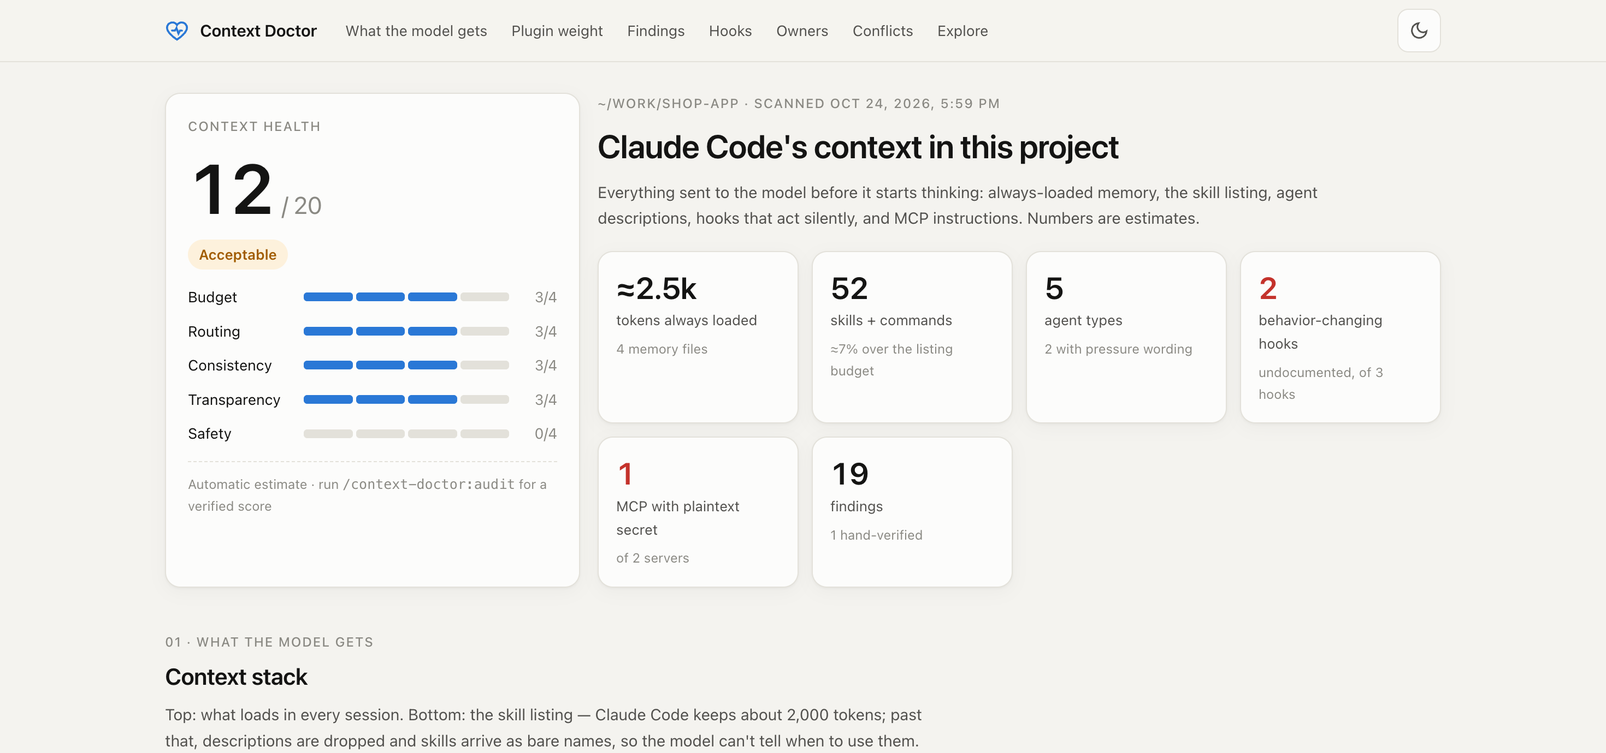
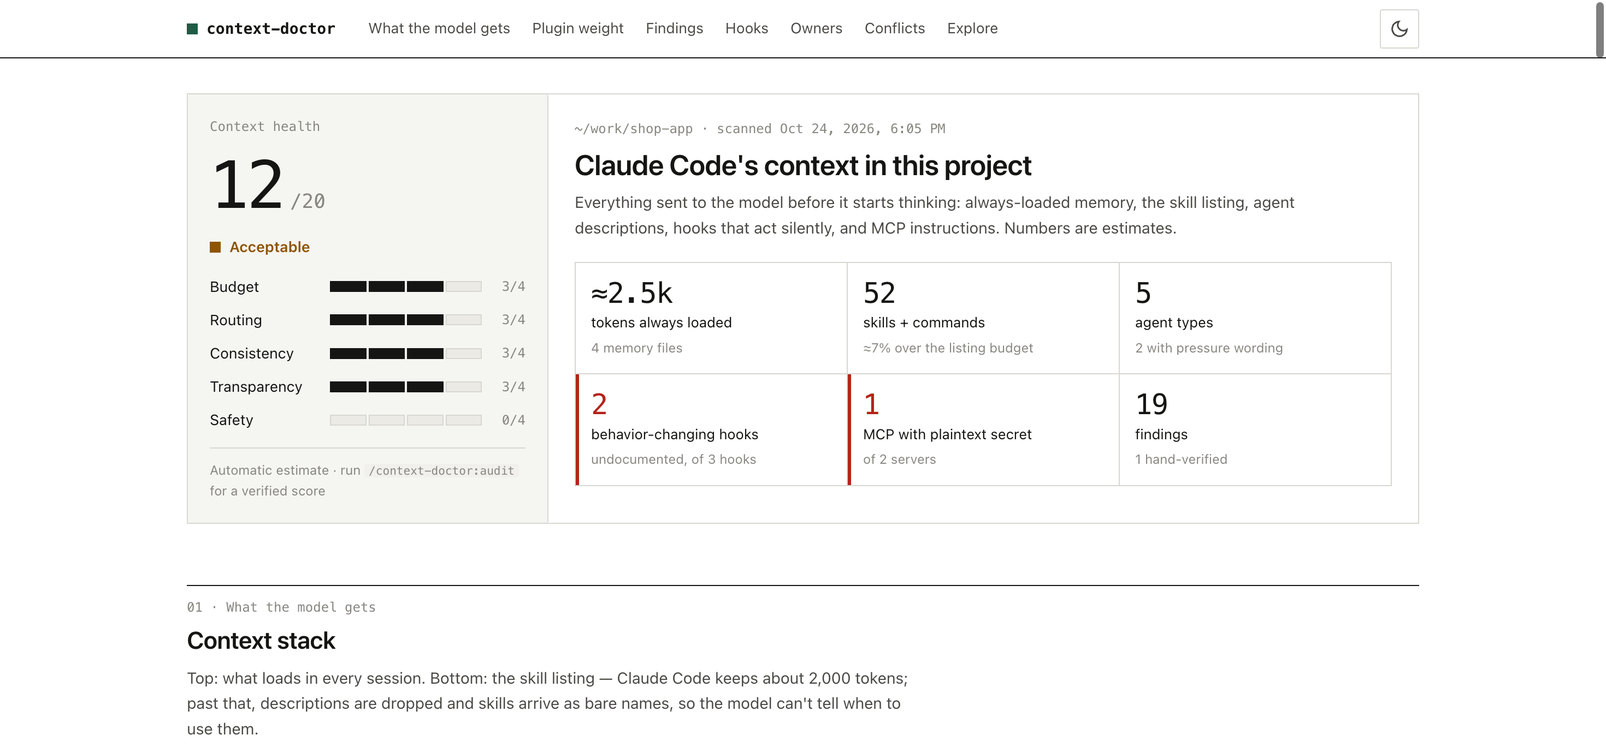
style: dashboard as a plain report — hairlines, mono figures, one accent

diff --git a/scanner/template.html b/scanner/template.html
@@ -7,171 +7,183 @@
 <style>
 :root {
   color-scheme: light;
-  --bg: #f4f3ef; --surface: #fcfcfb; --raised: #ffffff; --ink: #141413; --ink-2: #52514e; --ink-3: #8a8983;
-  --line: #e3e1da; --line-2: #ecebe5; --chip: #efeee9;
-  --accent: #2a78d6; --accent-soft: #e6f0fc;
-  --s1: #2a78d6; --s2: #eb6834; --s3: #1baf7a; --s4: #eda100; --s5: #e87ba4; --s6: #6250d6;
-  --qt-hi: #ffffff; --q150: #e4eefb; --q250: #b7d3f6; --q350: #6da7ec; --q450: #2a78d6; --q550: #184f95;
-  --crit: #c4322b; --crit-bg: #fbe9e7; --warn: #a15c00; --warn-bg: #fdf1dc; --good: #1d7a3e; --good-bg: #e6f4ea; --info: #52514e; --info-bg: #efeee9;
-  --hatch: #d8d6cf;
-  --shadow: 0 1px 2px rgba(20,20,19,.04), 0 4px 16px rgba(20,20,19,.04);
+  --bg: #ffffff; --surface: #ffffff; --alt: #f5f5f2; --ink: #151513; --ink-2: #4b4a45; --ink-3: #87867f;
+  --line: #d8d7d0; --line-2: #ebeae5; --chip: #f1f0ec;
+  --accent: #1d5c45; --accent-soft: #eaf1ed;
+  --s1: #0f3d2e; --s2: #2c6b52; --s3: #5a8f78; --s4: #8eb3a1; --s5: #bdd3c7; --s6: #dde8e2;
+  --qt-hi: #ffffff; --q150: #efeee9; --q250: #c9dccf; --q350: #8eb3a1; --q450: #3f7d64; --q550: #0f3d2e;
+  --crit: #b42318; --crit-bg: #fbeceb; --warn: #8f5400; --warn-bg: #fbf1df; --good: #1d5c45; --good-bg: #eaf1ed; --info: #4b4a45; --info-bg: #f1f0ec;
+  --hatch: #cfcec7;
 }
 @media (prefers-color-scheme: dark) { :root:where(:not([data-theme="light"])) {
   color-scheme: dark;
-  --bg: #121211; --surface: #1a1a19; --raised: #20201e; --ink: #f0efec; --ink-2: #c3c2b7; --ink-3: #8c8b84;
-  --line: #2f2e2b; --line-2: #272724; --chip: #2a2a27;
-  --accent: #3987e5; --accent-soft: #1c2b40;
-  --s1: #3987e5; --s2: #d95926; --s3: #199e70; --s4: #c98500; --s5: #d55181; --s6: #9085e9;
-  --qt-hi: #0b0b0b; --q150: #232c38; --q250: #1c4a85; --q350: #256abf; --q450: #5598e7; --q550: #9ec5f4;
-  --crit: #f0857c; --crit-bg: #3a1d1a; --warn: #e8b458; --warn-bg: #36290f; --good: #7cc995; --good-bg: #16301f; --info: #c3c2b7; --info-bg: #2a2a27;
-  --hatch: #3a3935;
-  --shadow: none;
+  --bg: #111110; --surface: #111110; --alt: #191917; --ink: #eceae4; --ink-2: #b9b7ae; --ink-3: #85847c;
+  --line: #34332f; --line-2: #262623; --chip: #22221f;
+  --accent: #7fbf9f; --accent-soft: #1a2a23;
+  --s1: #a9d6bf; --s2: #7fbf9f; --s3: #5c9e80; --s4: #3f7d64; --s5: #2c5c4a; --s6: #1f4436;
+  --qt-hi: #0d0d0c; --q150: #22221f; --q250: #24402f; --q350: #2f6b51; --q450: #5c9e80; --q550: #a9d6bf;
+  --crit: #f08a7e; --crit-bg: #3a1c19; --warn: #e3b05c; --warn-bg: #33270f; --good: #7fbf9f; --good-bg: #1a2a23; --info: #b9b7ae; --info-bg: #22221f;
+  --hatch: #3d3c37;
 } }
 :root[data-theme="dark"] {
   color-scheme: dark;
-  --bg: #121211; --surface: #1a1a19; --raised: #20201e; --ink: #f0efec; --ink-2: #c3c2b7; --ink-3: #8c8b84;
-  --line: #2f2e2b; --line-2: #272724; --chip: #2a2a27;
-  --accent: #3987e5; --accent-soft: #1c2b40;
-  --s1: #3987e5; --s2: #d95926; --s3: #199e70; --s4: #c98500; --s5: #d55181; --s6: #9085e9;
-  --qt-hi: #0b0b0b; --q150: #232c38; --q250: #1c4a85; --q350: #256abf; --q450: #5598e7; --q550: #9ec5f4;
-  --crit: #f0857c; --crit-bg: #3a1d1a; --warn: #e8b458; --warn-bg: #36290f; --good: #7cc995; --good-bg: #16301f; --info: #c3c2b7; --info-bg: #2a2a27;
-  --hatch: #3a3935;
-  --shadow: none;
+  --bg: #111110; --surface: #111110; --alt: #191917; --ink: #eceae4; --ink-2: #b9b7ae; --ink-3: #85847c;
+  --line: #34332f; --line-2: #262623; --chip: #22221f;
+  --accent: #7fbf9f; --accent-soft: #1a2a23;
+  --s1: #a9d6bf; --s2: #7fbf9f; --s3: #5c9e80; --s4: #3f7d64; --s5: #2c5c4a; --s6: #1f4436;
+  --qt-hi: #0d0d0c; --q150: #22221f; --q250: #24402f; --q350: #2f6b51; --q450: #5c9e80; --q550: #a9d6bf;
+  --crit: #f08a7e; --crit-bg: #3a1c19; --warn: #e3b05c; --warn-bg: #33270f; --good: #7fbf9f; --good-bg: #1a2a23; --info: #b9b7ae; --info-bg: #22221f;
+  --hatch: #3d3c37;
 }
 * { box-sizing: border-box }
-html { scroll-behavior: smooth; scroll-padding-top: 72px }
-body { margin: 0; background: var(--bg); color: var(--ink); font: 15px/1.65 'IBM Plex Sans Thai', 'Noto Sans Thai', system-ui, -apple-system, 'Segoe UI', sans-serif; -webkit-font-smoothing: antialiased }
-.mono, code { font-family: 'IBM Plex Mono', ui-monospace, SFMono-Regular, Menlo, Consolas, monospace; font-size: 12.5px }
-.wrap { max-width: 1200px; margin: 0 auto; padding: 0 16px 80px }
-.top { position: sticky; top: 0; z-index: 10; background: color-mix(in srgb, var(--bg) 88%, transparent); backdrop-filter: blur(8px); border-bottom: 1px solid var(--line) }
-.top .wrap { display: flex; align-items: center; gap: 16px; padding-bottom: 0; min-height: 56px; flex-wrap: wrap }
-.brand { display: flex; align-items: center; gap: 10px; font-weight: 600; letter-spacing: -.01em }
-.brand svg { color: var(--accent) }
-.top nav { display: flex; gap: 2px; overflow-x: auto; flex: 1; scrollbar-width: none }
-.top nav a { color: var(--ink-2); text-decoration: none; font-size: 13.5px; padding: 8px 10px; border-radius: 8px; white-space: nowrap }
-.top nav a:hover { background: var(--chip); color: var(--ink) }
-.iconbtn { border: 1px solid var(--line); background: var(--surface); color: var(--ink-2); border-radius: 10px; width: 40px; height: 40px; display: grid; place-items: center; cursor: pointer }
-.iconbtn:hover { color: var(--ink) }
-section { padding-top: 40px }
-.eyebrow { font-size: 12px; letter-spacing: .08em; text-transform: uppercase; color: var(--ink-3); font-weight: 500 }
-h2 { font-size: 21px; font-weight: 600; letter-spacing: -.01em; margin: 4px 0 6px }
-.lede { color: var(--ink-2); margin: 0 0 18px; max-width: 76ch; font-size: 14.5px }
-.card { background: var(--surface); border: 1px solid var(--line); border-radius: 14px; padding: 20px; box-shadow: var(--shadow) }
+html { scroll-behavior: smooth; scroll-padding-top: 64px }
+body { margin: 0; background: var(--bg); color: var(--ink); font: 15px/1.6 'IBM Plex Sans Thai', 'Noto Sans Thai', -apple-system, system-ui, 'Segoe UI', sans-serif; -webkit-font-smoothing: antialiased }
+.mono, code, .eyebrow, .num, .sev, .badge, th, .tile .v, .score .big, .meter span:last-child { font-family: 'IBM Plex Mono', ui-monospace, SFMono-Regular, Menlo, Consolas, monospace }
+code { font-size: .88em; background: var(--chip); padding: 0 4px; border-radius: 2px }
+.mono { font-size: 12.5px }
+.wrap { max-width: 1160px; margin: 0 auto; padding: 0 16px 80px }
+.top { position: sticky; top: 0; z-index: 10; background: var(--bg); border-bottom: 1px solid var(--ink) }
+.top .wrap { display: flex; align-items: center; gap: 20px; padding-bottom: 0; min-height: 52px; flex-wrap: wrap }
+.brand { display: flex; align-items: center; gap: 8px; font: 600 14px/1 'IBM Plex Mono', ui-monospace, Menlo, monospace; letter-spacing: 0 }
+.brand i { width: 10px; height: 10px; background: var(--accent); display: inline-block }
+.top nav { display: flex; gap: 0; overflow-x: auto; flex: 1; scrollbar-width: none }
+.top nav a { color: var(--ink-2); text-decoration: none; font-size: 13.5px; padding: 15px 10px 14px; white-space: nowrap; border-bottom: 2px solid transparent }
+.top nav a:hover { color: var(--ink); border-bottom-color: var(--ink) }
+.iconbtn { border: 1px solid var(--line); background: var(--bg); color: var(--ink-2); border-radius: 2px; width: 36px; height: 36px; display: grid; place-items: center; cursor: pointer }
+.iconbtn:hover { color: var(--ink); border-color: var(--ink) }
+section { padding-top: 56px }
+.eyebrow { font-size: 12px; color: var(--ink-3); font-weight: 400 }
+h2 { font-size: 22px; font-weight: 600; letter-spacing: -.01em; margin: 2px 0 6px; padding-top: 0 }
+section > .eyebrow { border-top: 1px solid var(--ink); padding-top: 10px }
+.lede { color: var(--ink-2); margin: 0 0 20px; max-width: 74ch; font-size: 14.5px }
+.card { background: var(--surface); border: 1px solid var(--line); border-radius: 2px; padding: 20px }
 .muted { color: var(--ink-2) } .faint { color: var(--ink-3) } .small { font-size: 13px } .num { font-variant-numeric: tabular-nums }
 /* hero */
-.hero { display: grid; grid-template-columns: minmax(280px, 380px) 1fr; gap: 16px; padding-top: 28px }
-@media (max-width: 860px) { .hero { grid-template-columns: 1fr } }
-.score { display: flex; flex-direction: column; gap: 14px }
-.score .big { display: flex; align-items: baseline; gap: 8px }
-.score .big b { font-size: 64px; line-height: 1; font-weight: 600; letter-spacing: -.03em; font-variant-numeric: tabular-nums }
-.score .big span { font-size: 22px; color: var(--ink-3) }
-.band { display: inline-flex; align-items: center; gap: 6px; font-weight: 600; font-size: 13px; padding: 3px 10px; border-radius: 999px }
-.meter { display: grid; grid-template-columns: 96px 1fr 34px; gap: 10px; align-items: center; font-size: 13.5px }
-.meter .segs { display: grid; grid-template-columns: repeat(4, 1fr); gap: 3px }
-.meter .segs i { height: 8px; border-radius: 3px; background: var(--line) }
-.meter .segs i.on { background: var(--accent) }
-.src { font-size: 12px; color: var(--ink-3); border-top: 1px dashed var(--line); padding-top: 10px }
-.tiles { display: grid; grid-template-columns: repeat(auto-fit, minmax(170px, 1fr)); gap: 12px }
-.tile { background: var(--surface); border: 1px solid var(--line); border-radius: 14px; padding: 16px; display: flex; flex-direction: column; gap: 2px; box-shadow: var(--shadow) }
-.tile .v { font-size: 28px; font-weight: 600; letter-spacing: -.02em; font-variant-numeric: tabular-nums; line-height: 1.2 }
-.tile .k { font-size: 13px; color: var(--ink-2) }
-.tile .d { font-size: 12px; color: var(--ink-3); margin-top: 4px }
+.hero { display: grid; grid-template-columns: minmax(260px, 330px) 1fr; gap: 0; margin-top: 32px; border: 1px solid var(--line) }
+@media (max-width: 860px) { .hero { grid-template-columns: 1fr } .hero > .score { border-right: 0; border-bottom: 1px solid var(--line) } }
+.hero > div:last-child { padding: 22px 24px 24px }
+.score { display: flex; flex-direction: column; gap: 14px; border: 0; border-right: 1px solid var(--line); background: var(--alt) }
+.score .big { display: flex; align-items: baseline; gap: 6px }
+.score .big b { font-size: 60px; line-height: 1; font-weight: 500; letter-spacing: -.04em; font-variant-numeric: tabular-nums }
+.score .big span { font-size: 18px; color: var(--ink-3) }
+.band { display: inline-flex; align-items: center; gap: 8px; font-weight: 600; font-size: 13.5px; background: none !important; padding: 0 }
+.band::before { content: ''; width: 10px; height: 10px; background: currentColor }
+.meter { display: grid; grid-template-columns: 100px 1fr 30px; gap: 10px; align-items: center; font-size: 13.5px }
+.meter .segs { display: grid; grid-template-columns: repeat(4, 1fr); gap: 2px }
+.meter .segs i { height: 10px; background: var(--line-2); border: 1px solid var(--line) }
+.meter .segs i.on { background: var(--ink); border-color: var(--ink) }
+.meter span:last-child { font-size: 12px }
+.src { font-size: 12px; color: var(--ink-3); border-top: 1px solid var(--line); padding-top: 10px; margin-top: auto }
+.tiles { display: grid; grid-template-columns: repeat(3, 1fr); border-top: 1px solid var(--line); border-left: 1px solid var(--line); margin-top: 6px }
+.tile { border-right: 1px solid var(--line); border-bottom: 1px solid var(--line); padding: 12px 14px 14px; display: flex; flex-direction: column; gap: 1px }
+.tile .v { font-size: 26px; font-weight: 500; letter-spacing: -.03em; font-variant-numeric: tabular-nums; line-height: 1.2 }
+.tile .k { font-size: 13px; color: var(--ink) }
+.tile .d { font-size: 12px; color: var(--ink-3); margin-top: 2px }
 .tile.alert .v { color: var(--crit) }
+.tile.alert { box-shadow: inset 3px 0 0 var(--crit) }
 /* stack bars */
-.stack { display: flex; flex-direction: column; gap: 22px }
+.stack { display: flex; flex-direction: column; gap: 26px }
 .barrow .head { display: flex; justify-content: space-between; gap: 12px; margin-bottom: 8px; flex-wrap: wrap }
 .barrow .head b { font-weight: 600 }
-.bar { display: flex; gap: 2px; height: 34px; border-radius: 8px; overflow: hidden }
-.bar > div { height: 100%; position: relative; min-width: 3px; transition: filter .15s }
-.bar > div:first-child { border-radius: 8px 0 0 8px } .bar > div:last-child { border-radius: 0 8px 8px 0 }
-.bar > div:hover { filter: brightness(1.08) }
-.bar .ovf { background: repeating-linear-gradient(45deg, var(--hatch) 0 2px, transparent 2px 7px); border: 1px dashed var(--ink-3) }
-.legend { display: flex; flex-wrap: wrap; gap: 6px 18px; margin-top: 10px; font-size: 13px; color: var(--ink-2) }
+.bar { display: flex; gap: 2px; height: 28px }
+.bar > div { height: 100%; position: relative; min-width: 3px }
+.bar > div:hover { outline: 2px solid var(--ink); outline-offset: -2px }
+.bar .ovf { background: repeating-linear-gradient(135deg, var(--hatch) 0 1px, transparent 1px 6px); border: 1px solid var(--ink-3) }
+.legend { display: flex; flex-wrap: wrap; gap: 6px 20px; margin-top: 10px; font-size: 13px; color: var(--ink-2) }
 .legend span { display: inline-flex; align-items: center; gap: 7px }
-.legend i { width: 10px; height: 10px; border-radius: 3px; display: inline-block; flex: none }
+.legend i { width: 10px; height: 10px; display: inline-block; flex: none }
 .legend b { color: var(--ink); font-weight: 500 }
 /* treemap */
 .tm { position: relative; width: 100%; aspect-ratio: 2.1 / 1; min-height: 300px }
 .tm .cell { position: absolute; padding: 1px }
-.tm .cell > div { width: 100%; height: 100%; border-radius: 6px; padding: 8px 10px; overflow: hidden; display: flex; flex-direction: column; justify-content: flex-start; cursor: default; transition: transform .12s }
+.tm .cell > div { width: 100%; height: 100%; padding: 7px 9px; overflow: hidden; display: flex; flex-direction: column; justify-content: flex-start; cursor: default }
 .tm .cell > div:hover { outline: 2px solid var(--ink); outline-offset: -2px }
-.tm .n { font-weight: 600; font-size: 13.5px; line-height: 1.3; white-space: nowrap; overflow: hidden; text-overflow: ellipsis }
-.tm .m { font-size: 12px; opacity: .85; white-space: nowrap; overflow: hidden; text-overflow: ellipsis }
+.tm .n { font-weight: 600; font-size: 13px; line-height: 1.3; white-space: nowrap; overflow: hidden; text-overflow: ellipsis }
+.tm .m { font: 11.5px/1.4 'IBM Plex Mono', ui-monospace, Menlo, monospace; opacity: .85; white-space: nowrap; overflow: hidden; text-overflow: ellipsis }
 .scale { display: flex; align-items: center; gap: 4px; font-size: 12px; color: var(--ink-2); flex-wrap: wrap }
-.scale i { width: 26px; height: 10px; border-radius: 2px; display: inline-block }
+.scale i { width: 22px; height: 10px; display: inline-block; border: 1px solid var(--line) }
 /* findings */
-.filters { display: flex; gap: 6px; flex-wrap: wrap; margin-bottom: 14px }
-.pill { border: 1px solid var(--line); background: var(--surface); color: var(--ink-2); border-radius: 999px; padding: 6px 14px; font: inherit; font-size: 13px; cursor: pointer; min-height: 36px }
-.pill.on { background: var(--ink); color: var(--bg); border-color: var(--ink) }
-.findings { display: grid; gap: 10px }
-details.f { background: var(--surface); border: 1px solid var(--line); border-radius: 12px; box-shadow: var(--shadow) }
-details.f > summary { list-style: none; cursor: pointer; padding: 14px 16px; display: grid; grid-template-columns: auto 1fr auto; gap: 12px; align-items: start; min-height: 44px }
+.filters { display: flex; gap: 0; flex-wrap: wrap; margin-bottom: 0; border-bottom: 1px solid var(--line) }
+.pill { border: 0; border-bottom: 2px solid transparent; background: none; color: var(--ink-2); padding: 8px 12px; font: inherit; font-size: 13.5px; cursor: pointer; min-height: 40px; margin-bottom: -1px }
+.pill:hover { color: var(--ink) }
+.pill.on { color: var(--ink); border-bottom-color: var(--ink); font-weight: 600 }
+.findings { display: grid; gap: 0 }
+details.f { border-bottom: 1px solid var(--line) }
+details.f > summary { list-style: none; cursor: pointer; padding: 13px 4px; display: grid; grid-template-columns: 108px 1fr auto; gap: 14px; align-items: start; min-height: 44px }
+details.f > summary:hover { background: var(--alt) }
 details.f > summary::-webkit-details-marker { display: none }
 details.f > summary .t { font-weight: 500 }
 details.f > summary .chev { color: var(--ink-3); transition: transform .15s; margin-top: 3px }
 details.f[open] > summary .chev { transform: rotate(90deg) }
-details.f .body { padding: 0 16px 16px 16px; display: grid; gap: 10px; font-size: 14px }
+details.f .body { padding: 0 4px 16px 126px; display: grid; gap: 10px; font-size: 14px }
+@media (max-width: 640px) { details.f > summary { grid-template-columns: 1fr auto } details.f > summary .sev { grid-column: 1 / -1 } details.f .body { padding-left: 4px } }
 details.f .body .ev { color: var(--ink-2); overflow-wrap: anywhere }
-details.f .fix { background: var(--accent-soft); border-radius: 8px; padding: 10px 12px }
-details.f .fix b { color: var(--accent) }
-.sev { display: inline-flex; align-items: center; gap: 5px; font-size: 12px; font-weight: 600; padding: 2px 9px; border-radius: 999px; white-space: nowrap }
-.sev.p0 { color: var(--crit); background: var(--crit-bg) } .sev.p1 { color: var(--warn); background: var(--warn-bg) } .sev.p2 { color: var(--info); background: var(--info-bg) }
-.badge { font-size: 11.5px; color: var(--ink-3); border: 1px solid var(--line); border-radius: 6px; padding: 1px 7px; margin-left: 8px; white-space: nowrap; vertical-align: 1px }
-.badge.ok { color: var(--good); border-color: color-mix(in srgb, var(--good) 40%, transparent) }
+details.f .fix { border-left: 2px solid var(--accent); padding: 2px 0 2px 12px }
+details.f .fix b { color: var(--accent); font-weight: 600 }
+.sev { display: inline-flex; align-items: center; gap: 6px; font-size: 11.5px; font-weight: 500; white-space: nowrap; color: var(--ink-2) }
+.sev::before { content: ''; width: 8px; height: 8px; flex: none; background: currentColor }
+.sev.p0 { color: var(--crit) } .sev.p1 { color: var(--warn) } .sev.p2 { color: var(--ink-3) }
+.badge { font-size: 11px; color: var(--ink-3); margin-left: 10px; white-space: nowrap; vertical-align: 1px }
+.badge.ok { color: var(--good) }
+.badge.ok::before { content: '✓ ' }
 /* lifecycle */
-.flow { display: grid; grid-template-columns: repeat(auto-fill, minmax(210px, 1fr)); gap: 12px; counter-reset: step }
+.flow { display: grid; grid-template-columns: repeat(auto-fill, minmax(200px, 1fr)); gap: 0; padding-left: 1px }
 .ev { position: relative }
-.evnode { background: var(--surface); border: 1px solid var(--line); border-radius: 12px; padding: 14px; height: 100%; box-shadow: var(--shadow) }
+.evnode { margin-left: -1px; border-left: 1px solid var(--line); border-right: 1px solid var(--line); border-bottom: 1px solid var(--line); border-top: 2px solid var(--ink); padding: 12px 14px 16px; height: 100% }
 .evnode h4 { margin: 0 0 2px; font-size: 14px; font-weight: 600; display: flex; justify-content: space-between; gap: 8px }
-.evnode h4 .c { font-weight: 500; color: var(--ink-3); font-size: 12.5px }
+.evnode h4 .c { font: 400 12px/1.6 'IBM Plex Mono', ui-monospace, Menlo, monospace; color: var(--ink-3) }
 .evnode .when { font-size: 12px; color: var(--ink-3); margin-bottom: 10px }
-.hk { display: flex; flex-direction: column; gap: 5px }
-.hk span { font-size: 12.5px; padding: 4px 8px; border-radius: 6px; background: var(--chip); color: var(--ink-2); overflow-wrap: anywhere; line-height: 1.45 }
-.hk span.beh { background: var(--warn-bg); color: var(--warn) }
-.hk span.beh.doc { background: var(--good-bg); color: var(--good) }
+.hk { display: flex; flex-direction: column; gap: 4px }
+.hk span { font-size: 12.5px; padding: 4px 8px; background: var(--alt); color: var(--ink-2); overflow-wrap: anywhere; line-height: 1.45; border-left: 2px solid var(--line) }
+.hk span.beh { background: var(--warn-bg); color: var(--warn); border-left-color: var(--warn) }
+.hk span.beh.doc { background: var(--good-bg); color: var(--good); border-left-color: var(--good) }
 .hk span small { display: block; opacity: .8; font-size: 11.5px }
 /* owners */
-.owners { display: grid; grid-template-columns: repeat(auto-fill, minmax(260px, 1fr)); gap: 12px }
+.owners { display: grid; grid-template-columns: repeat(auto-fill, minmax(250px, 1fr)); gap: 0; padding: 1px 0 0 1px }
+.owners > .card { margin: -1px 0 0 -1px }
 .owner h4 { margin: 0; font-size: 15px; font-weight: 600; display: flex; justify-content: space-between; align-items: baseline; gap: 8px }
-.owner .cnt { font-size: 26px; font-weight: 600; letter-spacing: -.02em; font-variant-numeric: tabular-nums }
+.owner .cnt { font: 500 26px/1.2 'IBM Plex Mono', ui-monospace, Menlo, monospace; letter-spacing: -.03em }
 .owner .chips { display: flex; flex-wrap: wrap; gap: 4px; margin-top: 10px; max-height: 120px; overflow: hidden; mask-image: linear-gradient(to bottom, #000 75%, transparent) }
-.chip { font-size: 12px; background: var(--chip); color: var(--ink-2); border-radius: 6px; padding: 2px 8px }
-.chip.hot { background: var(--crit-bg); color: var(--crit) }
-.chip.own { background: var(--good-bg); color: var(--good) }
+.chip { font-size: 12px; background: none; color: var(--ink-2); border: 1px solid var(--line); border-radius: 2px; padding: 1px 6px }
+.chip.hot { color: var(--crit); border-color: color-mix(in srgb, var(--crit) 45%, transparent) }
+.chip.own { color: var(--good); border-color: color-mix(in srgb, var(--good) 45%, transparent) }
 /* conflicts */
-.pair { display: grid; grid-template-columns: 1fr 44px 1fr; align-items: stretch; margin-bottom: 14px }
+.pair { display: grid; grid-template-columns: 1fr 40px 1fr; align-items: stretch; margin-bottom: 14px }
 @media (max-width: 760px) { .pair { grid-template-columns: 1fr } .pair .vs { height: 28px } }
-.pair .side { background: var(--surface); border: 1px solid var(--line); border-radius: 12px; padding: 14px 16px; box-shadow: var(--shadow) }
-.pair .side h5 { margin: 0 0 8px; font-size: 12px; letter-spacing: .06em; text-transform: uppercase; color: var(--ink-3); font-weight: 500 }
-.pair .vs { display: grid; place-items: center; color: var(--crit); font-weight: 600; font-size: 13px }
+.pair .side { border: 1px solid var(--line); padding: 12px 16px }
+.pair .side h5 { margin: 0 0 6px; font: 400 12px/1.5 'IBM Plex Mono', ui-monospace, Menlo, monospace; color: var(--ink-3) }
+.pair .vs { display: grid; place-items: center; color: var(--ink-3); font-size: 15px }
 .rule { padding: 8px 0; border-bottom: 1px solid var(--line-2); font-size: 13.5px } .rule:last-child { border: 0; padding-bottom: 0 }
-.rule .w { font-size: 11.5px; font-weight: 600; margin-right: 6px }
+.rule .w { font: 500 11px/1 'IBM Plex Mono', ui-monospace, Menlo, monospace; margin-right: 8px }
 .rule .w.no { color: var(--crit) } .rule .w.yes { color: var(--good) }
 .rule .s { display: block; font-size: 12px; color: var(--ink-3); margin-top: 2px }
 /* explorer */
-.tabs { display: flex; gap: 4px; border-bottom: 1px solid var(--line); margin-bottom: 14px; overflow-x: auto }
+.tabs { display: flex; gap: 0; border-bottom: 1px solid var(--line); margin-bottom: 14px; overflow-x: auto }
 .tabs button { background: none; border: 0; border-bottom: 2px solid transparent; padding: 10px 12px; font: inherit; font-size: 14px; color: var(--ink-2); cursor: pointer; margin-bottom: -1px; min-height: 44px; white-space: nowrap }
-.tabs button.on { color: var(--ink); border-bottom-color: var(--accent); font-weight: 500 }
+.tabs button.on { color: var(--ink); border-bottom-color: var(--ink); font-weight: 600 }
 .toolbar { display: flex; gap: 8px; flex-wrap: wrap; margin-bottom: 12px }
 .toolbar input { flex: 1; min-width: 200px }
-input[type=search], select { font: inherit; font-size: 14px; padding: 9px 12px; border: 1px solid var(--line); border-radius: 10px; background: var(--surface); color: var(--ink); min-height: 42px }
-.tablewrap { overflow-x: auto; background: var(--surface); border: 1px solid var(--line); border-radius: 12px }
+input[type=search], select { font: inherit; font-size: 14px; padding: 8px 10px; border: 1px solid var(--line); border-radius: 2px; background: var(--bg); color: var(--ink); min-height: 40px }
+input[type=search]:focus, select:focus { outline: 2px solid var(--ink); outline-offset: -1px }
+.tablewrap { overflow-x: auto; border-top: 1px solid var(--ink); border-bottom: 1px solid var(--line) }
 table { width: 100%; border-collapse: collapse; font-size: 13.5px }
-th { text-align: left; color: var(--ink-3); font-weight: 500; font-size: 12px; border-bottom: 1px solid var(--line); padding: 10px 12px; white-space: nowrap }
-td { border-bottom: 1px solid var(--line-2); padding: 10px 12px; vertical-align: top; overflow-wrap: anywhere }
+th { text-align: left; color: var(--ink-3); font-weight: 400; font-size: 11.5px; border-bottom: 1px solid var(--line); padding: 8px 10px; white-space: nowrap }
+td { border-bottom: 1px solid var(--line-2); padding: 9px 10px; vertical-align: top; overflow-wrap: anywhere }
 tr:last-child td { border-bottom: 0 }
-td.r { text-align: right; font-variant-numeric: tabular-nums; white-space: nowrap }
-tr.row { cursor: pointer } tr.row:hover td { background: var(--chip) }
-.more { margin-top: 10px; font: inherit; font-size: 14px; background: var(--chip); border: 0; border-radius: 10px; padding: 10px 16px; color: var(--ink); cursor: pointer; min-height: 42px }
+td.r { text-align: right; font-variant-numeric: tabular-nums; white-space: nowrap; font-family: 'IBM Plex Mono', ui-monospace, Menlo, monospace; font-size: 12.5px }
+tr.row { cursor: pointer } tr.row:hover td { background: var(--alt) }
+.more { margin-top: 10px; font: inherit; font-size: 14px; background: none; border: 1px solid var(--line); border-radius: 2px; padding: 8px 14px; color: var(--ink); cursor: pointer; min-height: 40px }
+.more:hover { border-color: var(--ink) }
 .empty { padding: 28px; text-align: center; color: var(--ink-3) }
-#tip { position: fixed; z-index: 50; pointer-events: none; background: var(--ink); color: var(--bg); font-size: 12.5px; padding: 8px 10px; border-radius: 8px; max-width: 320px; opacity: 0; transition: opacity .1s; line-height: 1.5 }
+#tip { position: fixed; z-index: 50; pointer-events: none; background: var(--ink); color: var(--bg); font-size: 12.5px; padding: 7px 9px; border-radius: 2px; max-width: 320px; opacity: 0; line-height: 1.5 }
 #tip b { font-weight: 600 }
-footer { margin-top: 48px; color: var(--ink-3); font-size: 12.5px; border-top: 1px solid var(--line); padding-top: 16px }
+footer { margin-top: 56px; color: var(--ink-3); font-size: 12.5px; border-top: 1px solid var(--ink); padding-top: 12px }
+@media (max-width: 560px) { .tiles { grid-template-columns: repeat(2, 1fr) } }
 </style>
 </head>
 <body>
 <div class="top"><div class="wrap">
-  <div class="brand"><svg width="22" height="22" viewBox="0 0 24 24" fill="none" stroke="currentColor" stroke-width="2" stroke-linecap="round"><path d="M12 21s-7-4.4-9.2-9A5.2 5.2 0 0 1 12 6.5 5.2 5.2 0 0 1 21.2 12C19 16.6 12 21 12 21z"/><path d="M7 12h3l1.5-2.5L13.5 15l1.5-3h2"/></svg>Context Doctor</div>
+  <div class="brand"><i></i>context-doctor</div>
   <nav id="nav"></nav>
   <button class="iconbtn" id="theme"><svg width="18" height="18" viewBox="0 0 24 24" fill="none" stroke="currentColor" stroke-width="2"><path d="M21 12.8A9 9 0 1 1 11.2 3a7 7 0 0 0 9.8 9.8z"/></svg></button>
 </div></div>
@@ -180,7 +192,7 @@ footer { margin-top: 48px; color: var(--ink-3); font-size: 12.5px; border-top: 1
     <div class="card score" id="score"></div>
     <div>
       <div class="eyebrow" id="meta"></div>
-      <h1 id="h1" style="font-size:30px;letter-spacing:-.02em;margin:4px 0 6px;font-weight:600"></h1>
+      <h1 id="h1" style="font-size:26px;letter-spacing:-.015em;margin:6px 0 6px;font-weight:600;line-height:1.3"></h1>
       <p class="lede" id="lede"></p>
       <div class="tiles" id="tiles"></div>
     </div>
@@ -295,8 +307,8 @@ const isUsed = i => usedNames.has(i.name)
   const total = DIMS.reduce((a, [d]) => a + (sc[d] ?? 0), 0)
   const bi = total >= 18 ? 0 : total >= 14 ? 1 : total >= 10 ? 2 : total >= 6 ? 3 : 4
   const bc = ['good', 'good', 'warn', 'warn', 'crit'][bi]
-  $('#score').innerHTML = `<div class="eyebrow">${I.health}</div><div class="big"><b>${total}</b><span>/ 20</span></div>
-    <div><span class="band" style="color:var(--${bc});background:var(--${bc}-bg)">${I.bands[bi]}</span></div>
+  $('#score').innerHTML = `<div class="eyebrow">${I.health}</div><div class="big"><b>${total}</b><span>/20</span></div>
+    <div><span class="band" style="color:var(--${bc})">${I.bands[bi]}</span></div>
     <div style="display:grid;gap:9px">${DIMS.map(([d, l]) => `<div class="meter" data-tip="<b>${l}</b> ${sc[d]}/4${R.audit?.keyFindings?.[d] ? '<br>' + esc(R.audit.keyFindings[d]) : ''}"><span>${l}</span><span class="segs">${[1, 2, 3, 4].map(x => `<i class="${x <= sc[d] ? 'on' : ''}"></i>`).join('')}</span><span class="num faint" style="text-align:right">${sc[d]}/4</span></div>`).join('')}</div>
     <div class="src">${R.audit ? I.fromAudit(when(R.audit.generatedAt)) : I.autoScore}</div>`
 }
@@ -359,7 +371,7 @@ const isUsed = i => usedNames.has(i.name)
     const g = c.d, b = R.usage ? bucket(g.total ? g.used / g.total : 0) : 1
     const tip = `<b>${esc(g.name)}</b><br>${I.tmTip(fmt(g.tokens), g.skills, g.agents)}${R.usage ? '<br>' + I.usedOf(g.used, g.total) : ''}${g.aggressive ? '<br>' + I.pressureN(g.aggressive) : ''}`
     const big = c.w > 18 && c.h > 14
-    return `<div class="cell" style="left:${c.x / W * 100}%;top:${c.y / H * 100}%;width:${c.w / W * 100}%;height:${c.h / H * 100}%"><div style="background:${steps[b][0]};color:${b <= 1 ? 'var(--ink)' : 'var(--qt-hi)'}" data-tip="${esc(tip)}">${c.w > 9 && c.h > 9 ? `<span class="n">${esc(g.name)}</span>` : ''}${big ? `<span class="m">≈${k(g.tokens)} tok</span><span class="m">${R.usage ? I.usedOf(g.used, g.total) : ''}</span>` : ''}</div></div>`
+    return `<div class="cell" style="left:${c.x / W * 100}%;top:${c.y / H * 100}%;width:${c.w / W * 100}%;height:${c.h / H * 100}%"><div style="background:${steps[b][0]};color:${b <= 2 ? 'var(--ink)' : 'var(--qt-hi)'}" data-tip="${esc(tip)}">${c.w > 9 && c.h > 9 ? `<span class="n">${esc(g.name)}</span>` : ''}${big ? `<span class="m">≈${k(g.tokens)} tok</span><span class="m">${R.usage ? I.usedOf(g.used, g.total) : ''}</span>` : ''}</div></div>`
   }).join('')
   $('#tmscale').innerHTML = R.usage
     ? `<span style="margin-right:6px">${I.usedShare}</span>${steps.map(s => `<span style="display:inline-flex;align-items:center;gap:5px;margin-right:10px"><i style="background:${s[0]}"></i>${s[1]}</span>`).join('')}<span class="faint">· ${I.fromT(R.usage.files)}</span>`
